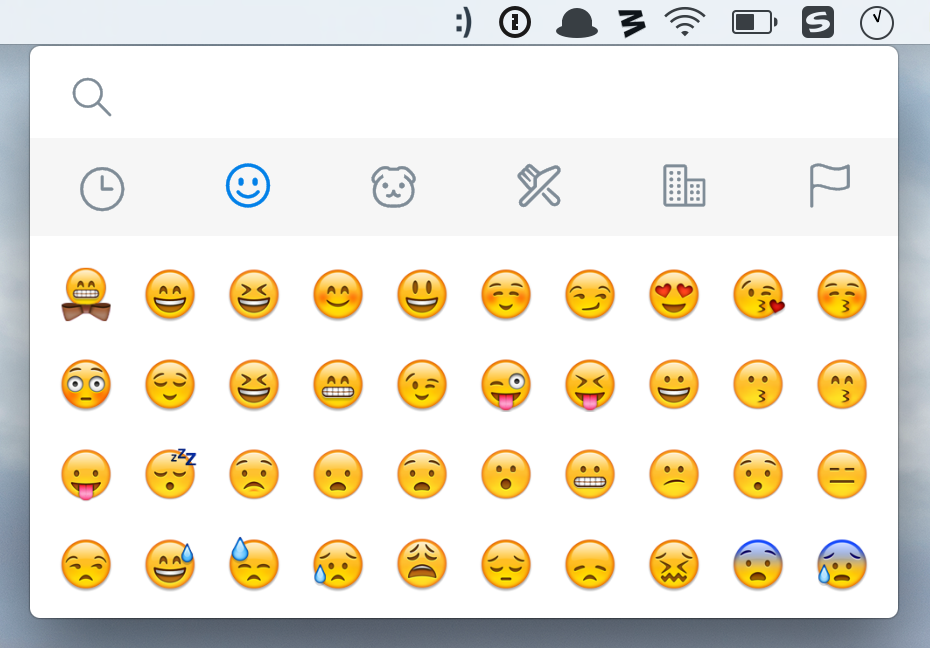
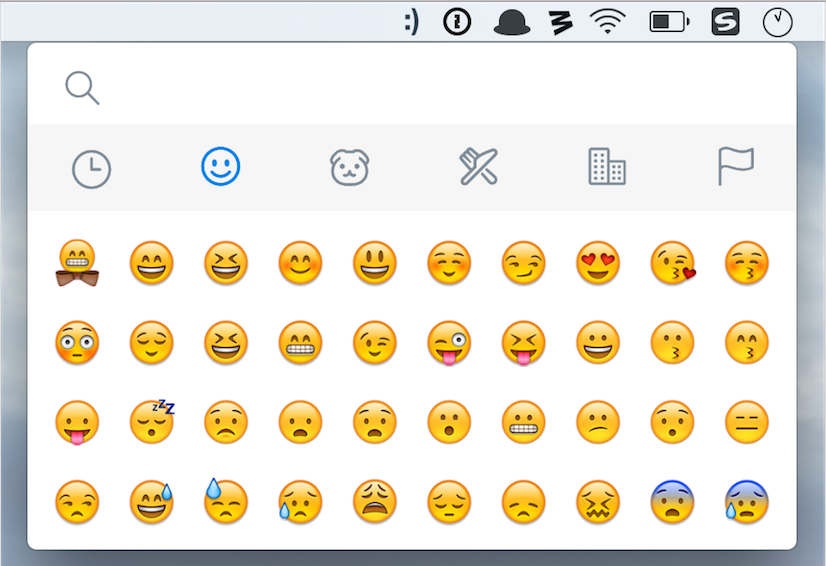
docs(readme): add gif demo

diff --git a/README.md b/README.md
@@ -14,17 +14,7 @@ emoji-menu is an app for emoji retreive tool in the taskbar. Previews are as fol
 + download from release page, and move it to the app directory (there are two versions of the package: dmg and exe)
 
 ### Usage
-![Gif Previes]()
-+ click the app icon in the taskbar
-+ click each tab to show emoijs respectively
-+ sliding the cursor over the people tab will show more emojis
-+ input text in the search bar, `he`
-+ click other two tabs respectively
-+ stop at the third tab, and delete character `e`, then delete `h`
-+ click any icons will pop up the window for copy
-+ click any place of the desktop, the window of emoji will be disappeared
-+ click the right cursor to cope the emoji to github issue page
-+ click github preview button and see the result
+![gif demo](demo.gif)
 
 ### Build
 ```
